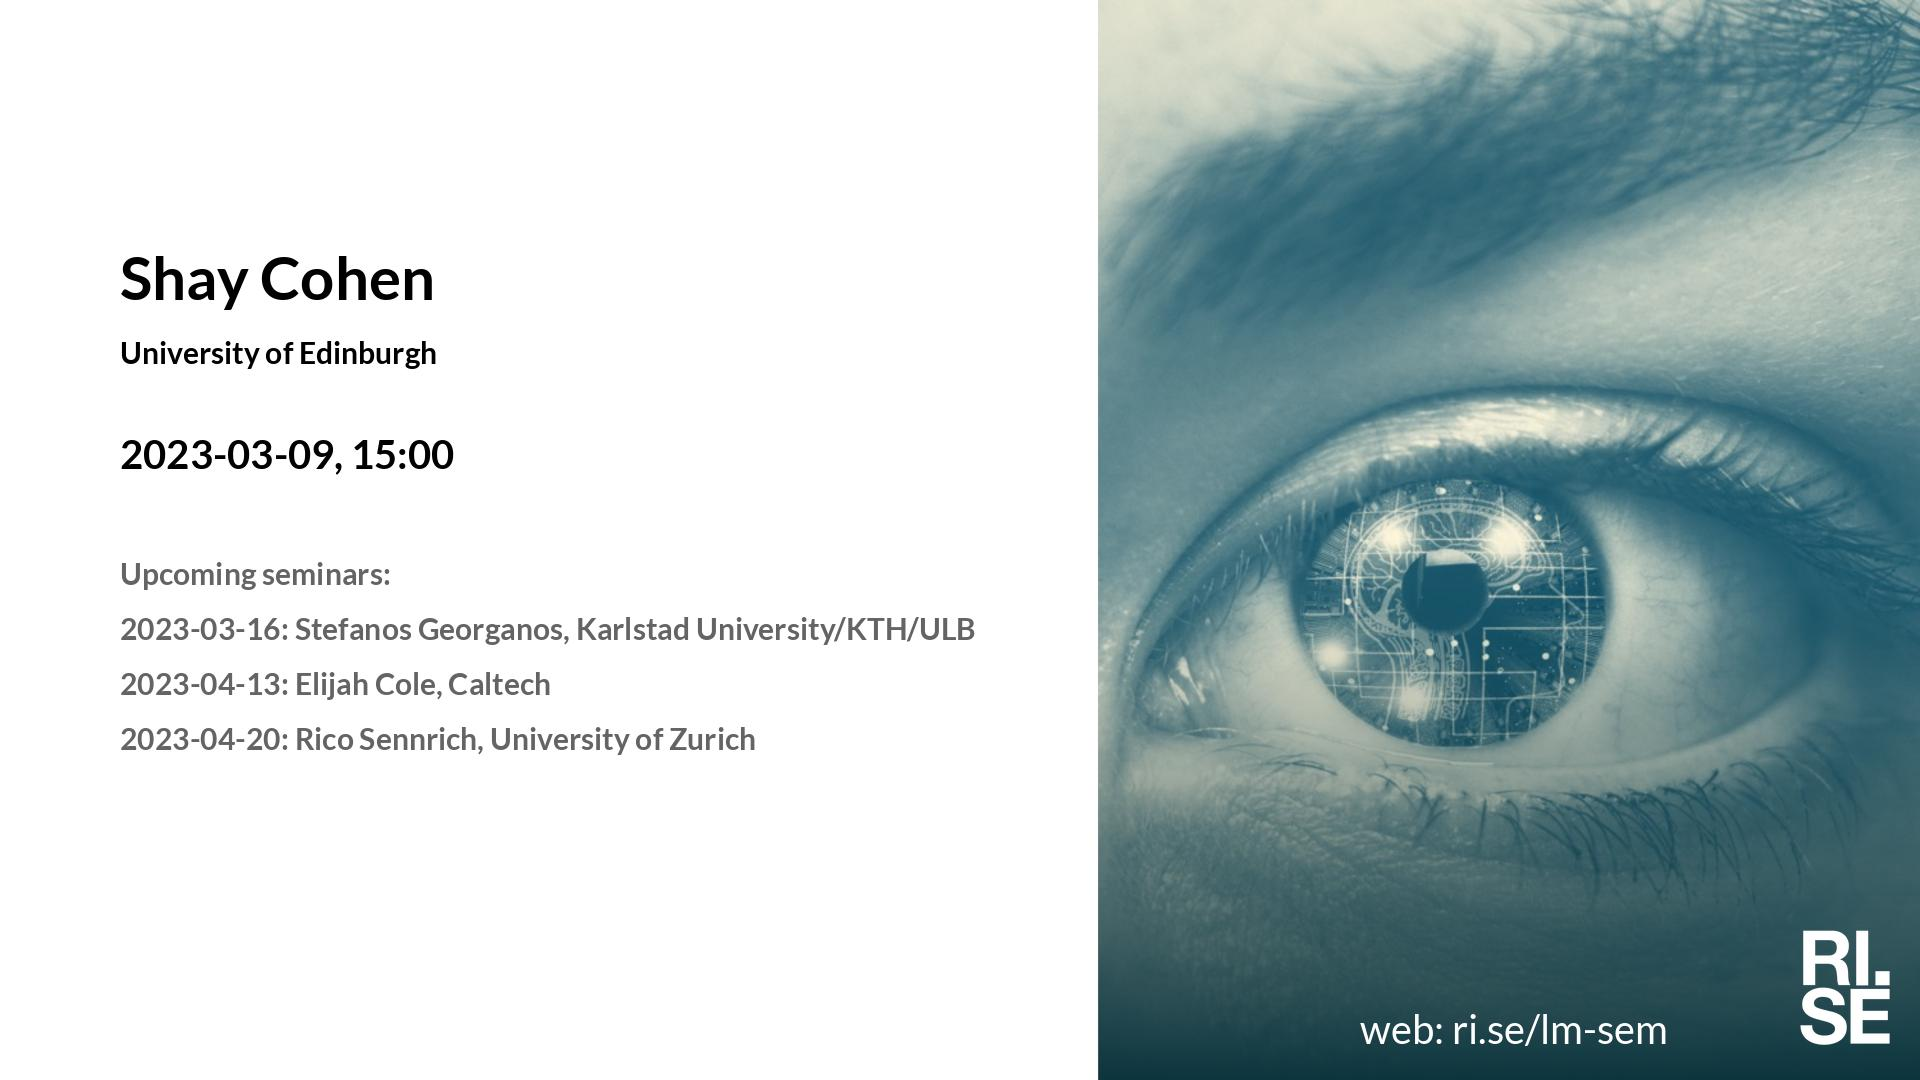
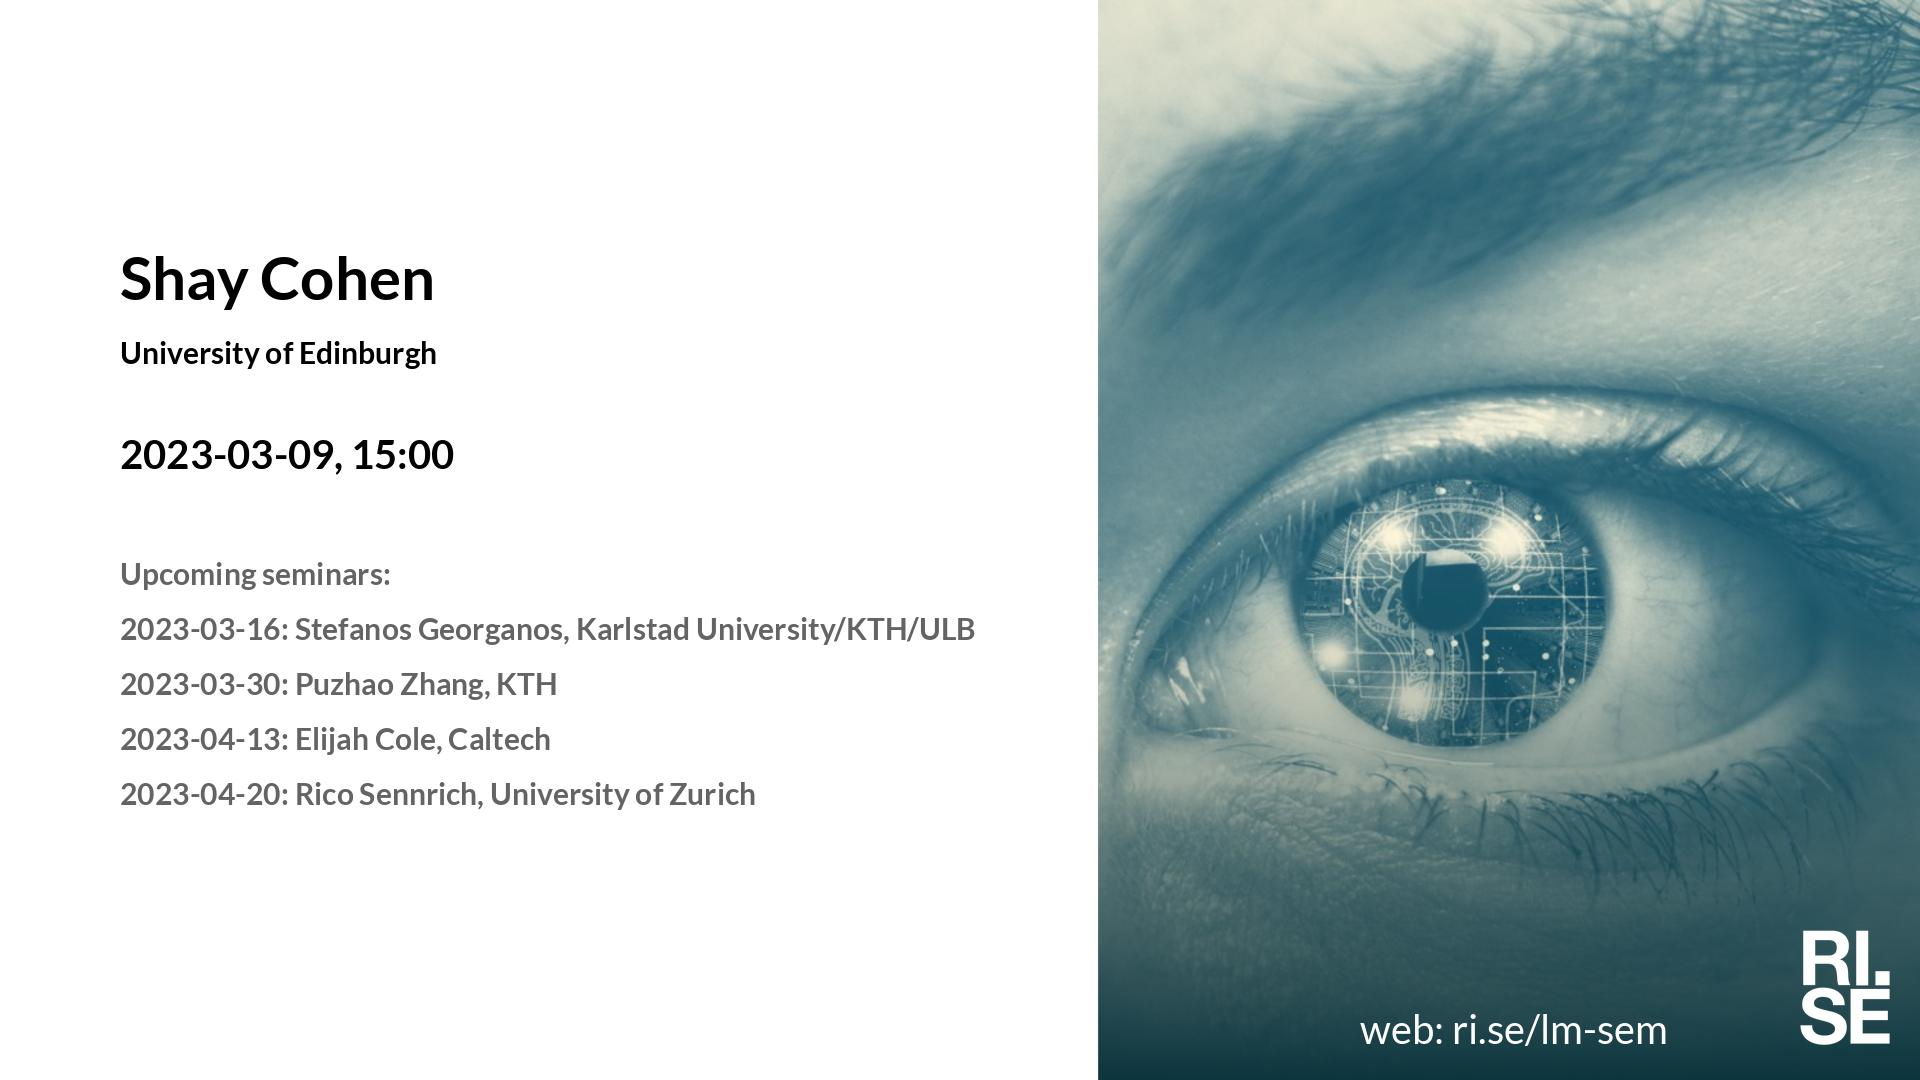
Updated plan on web site.

Changed region(s): [[0.0625, 0.6722, 0.4062, 0.7639], [0.125, 0.6111, 0.3125, 0.6417]]

diff --git a/lm/index.md b/lm/index.md
@@ -21,7 +21,7 @@ table {border-collapse: collapse;}
 |  2023-03-09  |  [Shay Cohen, University of Edinburgh](2023-03-09.md)  |  [photo](photo-shay-cohen.jpg)  |  [social media ](social-media-shay-cohen.jpg)  |  [meeting backdrop ](meeting-backdrop-shay-cohen.jpg)  |  [youtube thumbnail ](youtube-thumbnail-shay-cohen.jpg)  |  S~~TAB~~P  |
 |  2023-03-16  |  [Stefanos Georganos, Karlstad University/KTH/ULB](2023-03-16.md)  |  [photo](photo-stefanos-georganos.jpg)  |  [social media ](social-media-stefanos-georganos.jpg)  |  [meeting backdrop ](meeting-backdrop-stefanos-georganos.jpg)  |  [youtube thumbnail ](youtube-thumbnail-stefanos-georganos.jpg)  |  S~~TAB~~P  |
 | <span style="color:purple"> 2023-03-23 </span> | <span style="color:purple"> *Up for grabs!!!* </span> | <span style="color:purple">  </span> | <span style="color:purple">  </span> | <span style="color:purple">  </span> | <span style="color:purple">  </span> | <span style="color:purple"> ~~STABP~~ </span> |
-| <span style="color:grey"> 2023-03-30 </span> | <span style="color:grey"> Puzhao Z. ?, KTH </span> | <span style="color:grey">  </span> | <span style="color:grey">  </span> | <span style="color:grey">  </span> | <span style="color:grey">  </span> | <span style="color:grey"> S~~TABP~~ </span> |
+|  2023-03-30  |  [Puzhao Zhang, KTH](2023-03-30.md)  |  [photo](photo-puzhao-zhang.jpg)  |  [social media ](social-media-puzhao-zhang.jpg)  |  [meeting backdrop ](meeting-backdrop-puzhao-zhang.jpg)  |  [youtube thumbnail ](youtube-thumbnail-puzhao-zhang.jpg)  |  S~~TAB~~P  |
 | <span style="color:red"> 2023-04-06 </span> | <span style="color:red"> Påsklov/Skärtorsdag </span> | <span style="color:red">  </span> | <span style="color:red">  </span> | <span style="color:red">  </span> | <span style="color:red">  </span> | <span style="color:red"> CANCELLED </span> |
 |  2023-04-13  |  [Elijah Cole, Caltech](2023-04-13.md)  |  [photo](photo-elijah-cole.jpg)  |  [social media ](social-media-elijah-cole.jpg)  |  [meeting backdrop ](meeting-backdrop-elijah-cole.jpg)  |  [youtube thumbnail ](youtube-thumbnail-elijah-cole.jpg)  |  S~~TAB~~P  |
 |  2023-04-20  |  [Rico Sennrich, University of Zurich](2023-04-20.md)  |  [photo](photo-rico-sennrich.jpg)  |  [social media ](social-media-rico-sennrich.jpg)  |  [meeting backdrop ](meeting-backdrop-rico-sennrich.jpg)  |  [youtube thumbnail ](youtube-thumbnail-rico-sennrich.jpg)  |  S~~TAB~~P  |

diff --git a/lm/2023-03-30.md b/lm/2023-03-30.md
@@ -2,7 +2,7 @@ Welcome to this week's Learning Machines seminar.
 
 **Title:** 
 
-**Speaker:** Stefanos Georganos, Karlstad University/KTH/ULB
+**Speaker:** Puzhao Zhang, KTH
 
 **Abstract:** 
 
@@ -14,7 +14,6 @@ Welcome to this week's Learning Machines seminar.
 
 **Upcoming seminars:**
 
-* 2023-03-30: Puzhao Zhang, KTH
 * 2023-04-13: Elijah Cole, Caltech
 * 2023-04-20: Rico Sennrich, University of Zurich
 

diff --git a/lm/2023-03-09.md b/lm/2023-03-09.md
@@ -15,6 +15,7 @@ Welcome to this week's Learning Machines seminar.
 **Upcoming seminars:**
 
 * 2023-03-16: Stefanos Georganos, Karlstad University/KTH/ULB
+* 2023-03-30: Puzhao Zhang, KTH
 * 2023-04-13: Elijah Cole, Caltech
 * 2023-04-20: Rico Sennrich, University of Zurich
 
